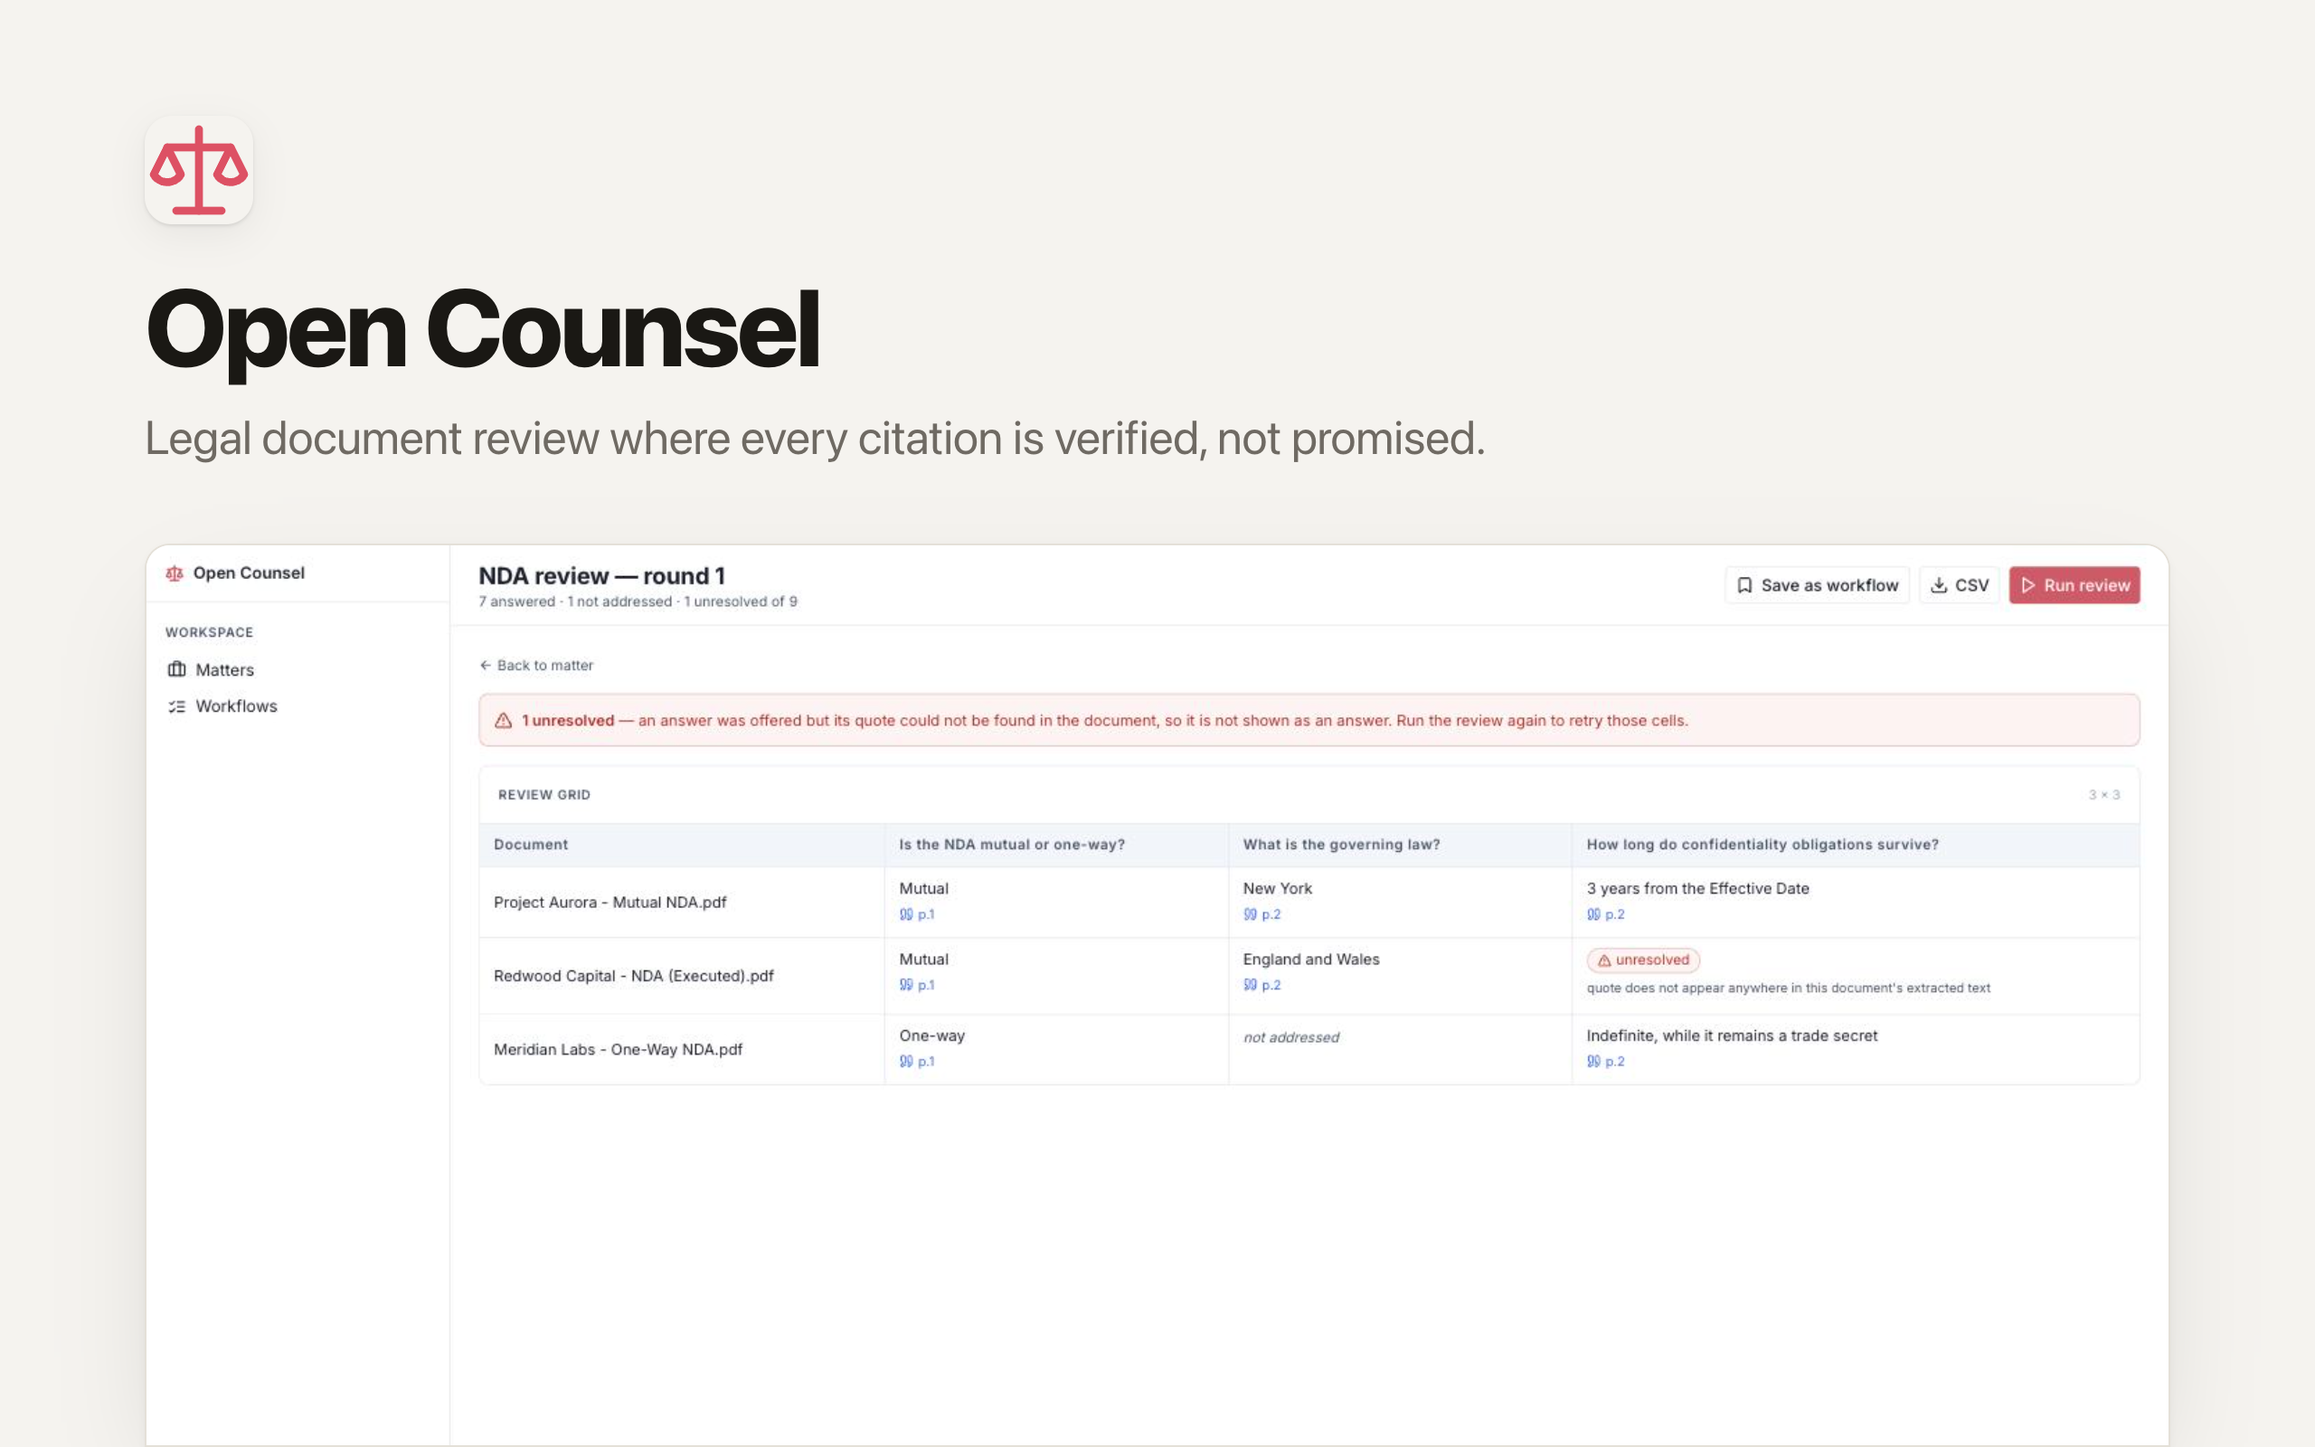
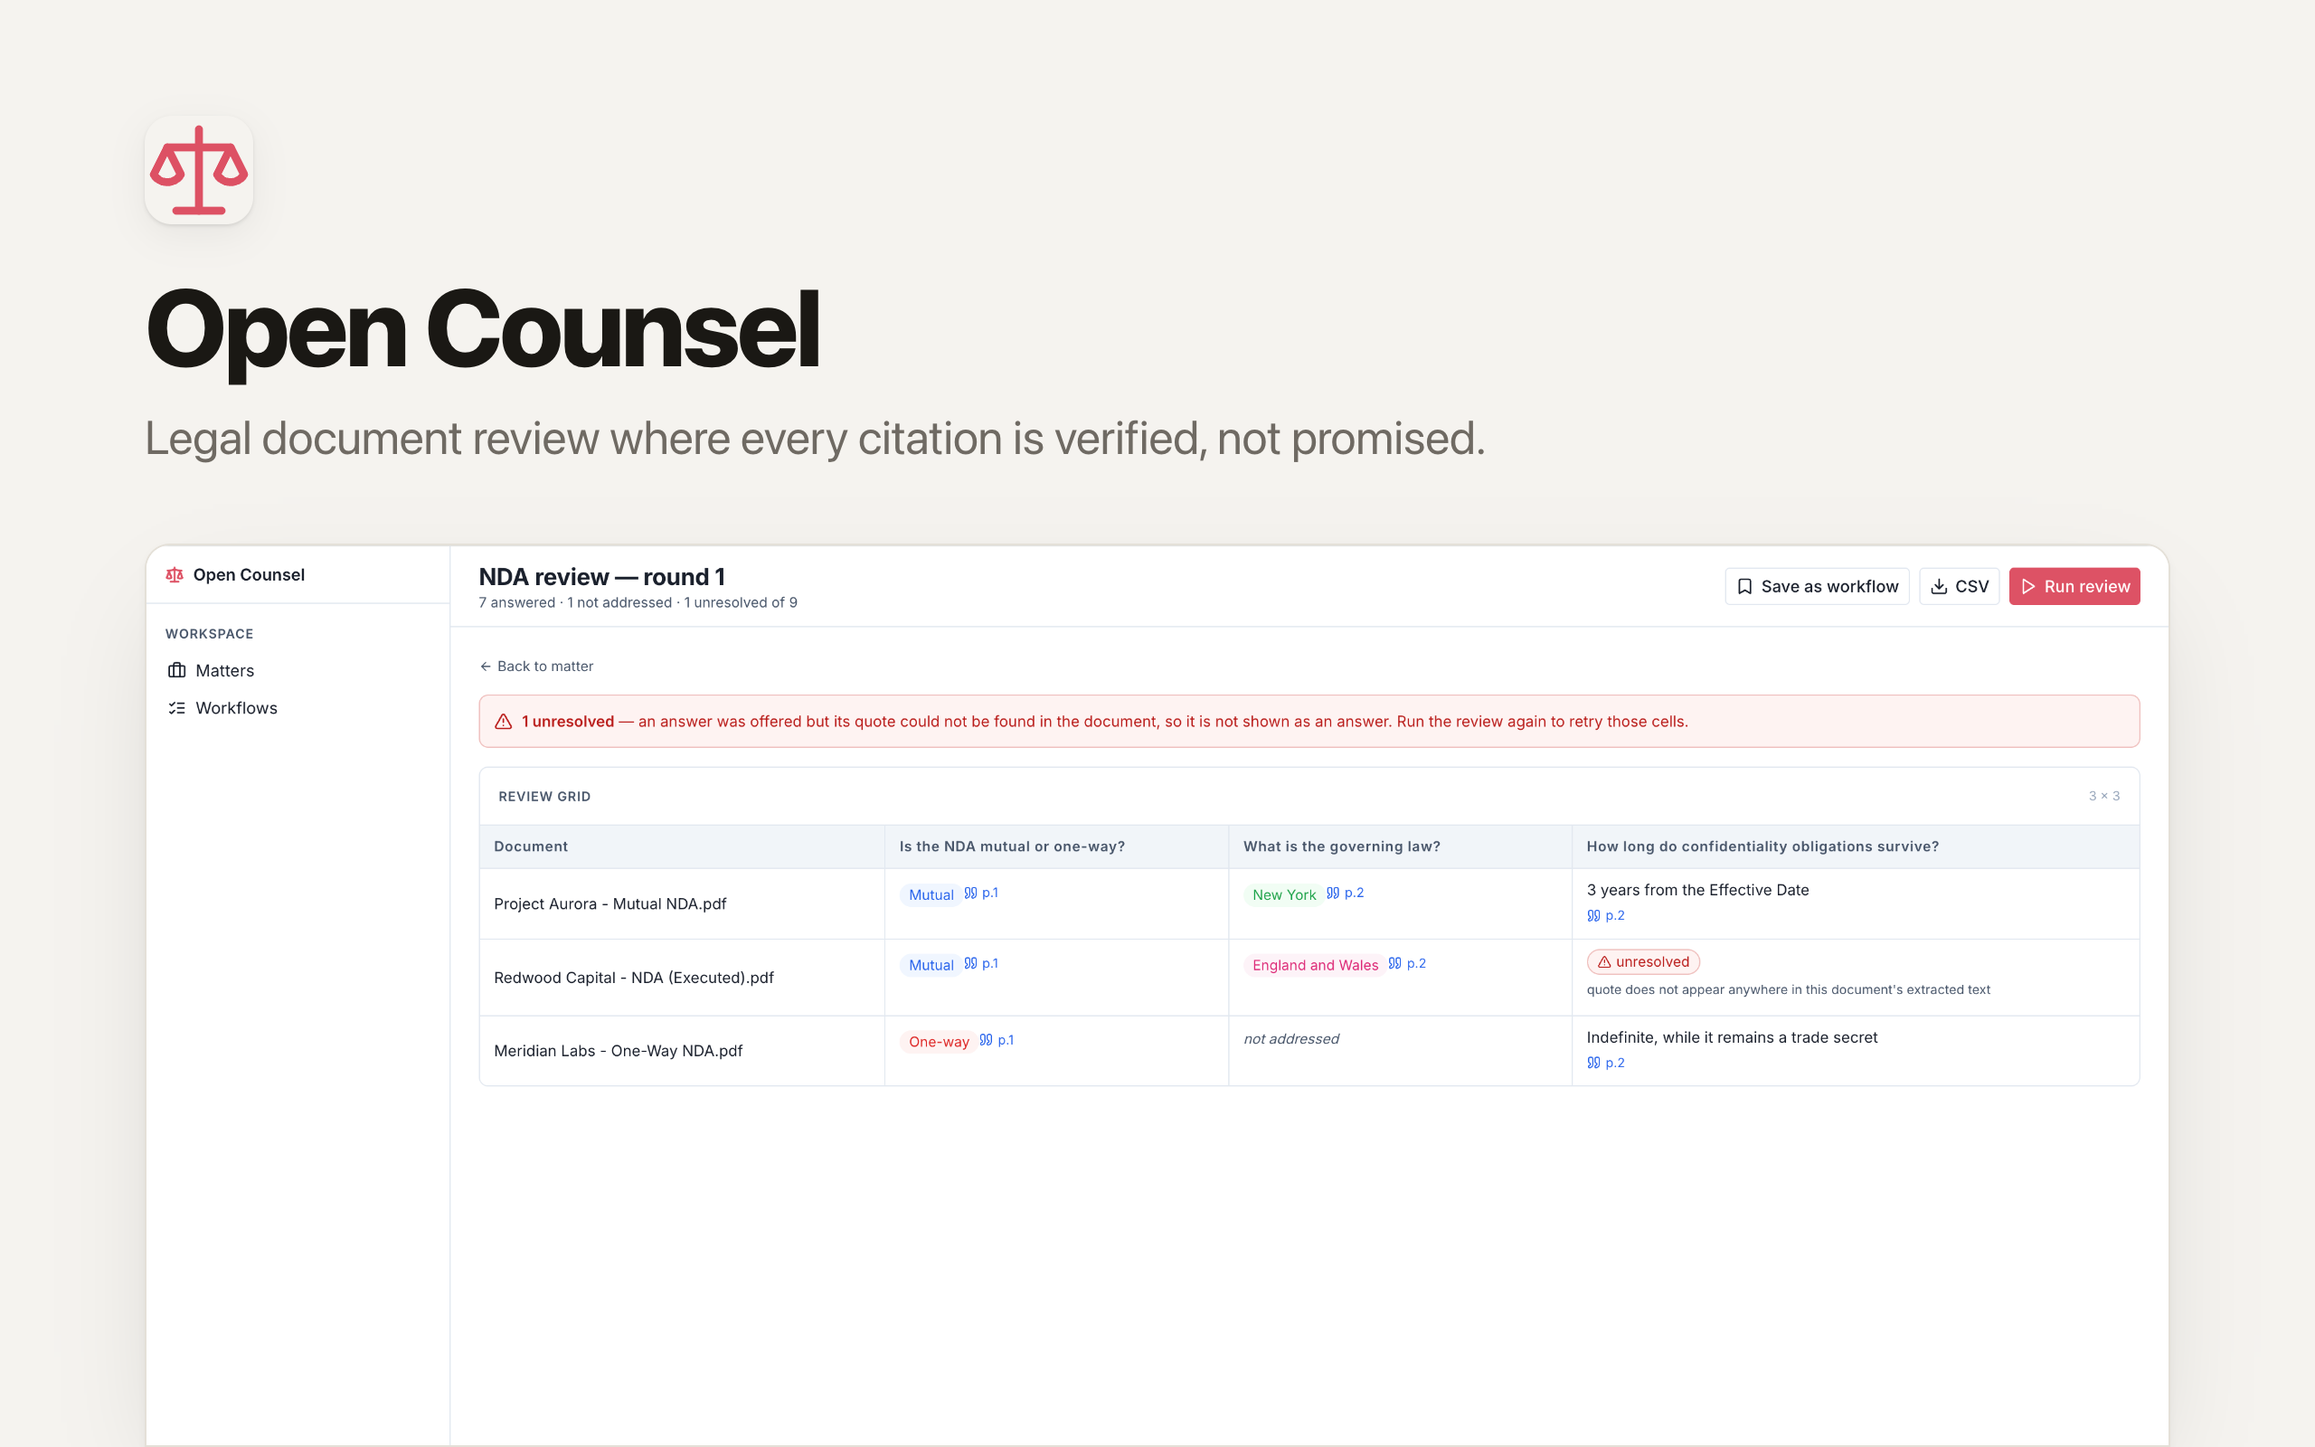
Take the agent handoff off the published API surface, and let the agent be chosen
The app told users to pick their reviewing agent in Settings, and there was no
Settings page — so an organization with more than one agent could not start a
review at all: the platform refuses to guess, and nothing in the UI could
resolve it. Adds the page, backed by a single-row agent_config, validating the
choice against the live agent list so a stale id cannot wedge every future
dispatch behind an uninterpretable platform 404.

More seriously, POST /api/reviews/{id}/run and the agent listing were both
published in the OpenAPI document the agent discovers the app through. The agent
is the *target* of a dispatch, so it could hand itself a review — a loop the app
has no way to break — and every published route costs context in every agent
turn. Both are now plain unpublished routes. Published path count: 14, none of
them the handoff.

Also refreshes the README banner.

diff --git a/src/server/index.ts b/src/server/index.ts
@@ -927,53 +927,80 @@ async function upsertCell(
   );
 }
 
-const runReview = createRoute({
-  method: "post",
-  path: "/api/reviews/{id}/run",
-  tags: ["Reviews"],
-  summary: "Hand the review to the org's agent",
-  description: "Returns the brief either way — when dispatch is unavailable the user pastes it into chat instead.",
-  request: {
-    params: z.object({ id: z.string() }),
-    body: {
-      content: {
-        "application/json": {
-          schema: z.object({ server_id: z.string().optional() }),
-        },
-      },
-    },
-  },
-  responses: {
-    200: ok(
-      "Dispatch outcome plus the brief",
-      z.object({
-        dispatched: z.boolean(),
-        brief: z.string(),
-        error: z.string().optional(),
-        servers: z.array(z.object({ id: z.string(), name: z.string().nullable(), status: z.string().nullable() })).optional(),
-      }),
-    ),
-    404: fail("No such review"),
-  },
+// ── Agent handoff ───────────────────────────────────────────────────
+//
+// A review runs on the org's agent, not in this app: reading long legal prose
+// is judgment work that takes minutes. These routes are the handoff.
+//
+// They are deliberately NOT on the OpenAPI surface. The agent is the *target*
+// of a dispatch, so publishing `/run` would let it hand a review to itself — a
+// loop the app has no way to break — and every published route costs context in
+// every agent turn. The agent's side of this contract is the routes it already
+// has: GET /api/documents/{id}/pages and POST /api/reviews/{id}/cells.
+
+/** The chosen agent, or null to let the platform resolve a single-agent org. */
+async function configuredServerId(): Promise<string | null> {
+  const row = await get<{ server_id: string }>("SELECT server_id FROM agent_config WHERE id = 1");
+  return row?.server_id || null;
+}
+
+app.get("/api/agent", async (c) => {
+  const servers = await listAgentServers(c.env);
+  return c.json({
+    // Distinct on purpose: "this deployment has no platform token" (off-platform)
+    // is a different problem from "the platform didn't answer" (transient).
+    available: dispatchAvailable(c.env),
+    reachable: servers !== null,
+    server_id: await configuredServerId(),
+    servers: servers ?? [],
+  });
 });
 
-app.openapi(runReview, async (c) => {
-  const { id } = c.req.valid("param");
-  const body = c.req.valid("json");
+app.put("/api/agent", async (c) => {
+  let body: { server_id?: unknown };
+  try {
+    body = (await c.req.json()) as typeof body;
+  } catch {
+    return c.json({ error: "Invalid JSON" }, 400);
+  }
+  const wanted = typeof body.server_id === "string" ? body.server_id.trim() : "";
+
+  // Validated against the live list rather than stored blind: a mistyped or
+  // decommissioned id would otherwise wedge every future review behind a
+  // platform 404 the user has no way to interpret.
+  if (wanted) {
+    const servers = await listAgentServers(c.env);
+    if (servers === null) return c.json({ error: "Can't reach the platform to verify that agent." }, 503);
+    if (!servers.some((s) => s.id === wanted)) return c.json({ error: "That agent isn't in your organization." }, 400);
+  }
+
+  await run(
+    `INSERT INTO agent_config (id, server_id, updated_at) VALUES (1, ?, datetime('now'))
+     ON CONFLICT(id) DO UPDATE SET server_id = excluded.server_id, updated_at = excluded.updated_at`,
+    [wanted],
+  );
+  return c.json({ server_id: wanted || null });
+});
+
+/** Hand a review to the agent. Returns the brief either way, so an unreachable
+ *  platform degrades to "paste this into chat" rather than a dead end. */
+app.post("/api/reviews/:id/run", async (c) => {
+  const id = c.req.param("id");
 
   const review = await get<{ id: string; name: string; matter_id: string }>(
     "SELECT id, name, matter_id FROM reviews WHERE id = ?",
     [id],
   );
-  if (!review) return c.json({ error: "No such review" } as never, 404);
+  if (!review) return c.json({ error: "No such review" }, 404);
 
   const columns = await query<{ key: string; question: string; hint: string; type: string; options: string }>(
     "SELECT key, question, hint, type, options FROM review_columns WHERE review_id = ? ORDER BY position",
     [id],
   );
-  const documentCount = await countOf("SELECT COUNT(*) AS n FROM documents WHERE matter_id = ? AND extract_status = 'ready'", [
-    review.matter_id,
-  ]);
+  const documentCount = await countOf(
+    "SELECT COUNT(*) AS n FROM documents WHERE matter_id = ? AND extract_status = 'ready'",
+    [review.matter_id],
+  );
 
   const brief = reviewBrief({
     reviewId: id,
@@ -985,18 +1012,18 @@ app.openapi(runReview, async (c) => {
 
   const result = await dispatchTask(c.env, {
     instruction: brief,
-    serverId: body?.server_id ?? null,
-    // Keyed on the review *and* its current cell count, so re-running after
-    // more documents arrive is a new task rather than a silently-deduplicated
-    // repeat of the first one.
+    serverId: await configuredServerId(),
+    // Keyed on the review *and* how many documents it covers, so re-running
+    // after more documents arrive is a new task rather than a silently
+    // deduplicated repeat of the first one.
     idempotencyKey: `review:${id}:${documentCount}`,
   });
 
   if (result.ok) {
     await run("UPDATE reviews SET status = 'running', updated_at = datetime('now') WHERE id = ?", [id]);
-    return c.json({ dispatched: true, brief } as never);
+    return c.json({ dispatched: true, brief });
   }
-  return c.json({ dispatched: false, brief, error: result.error, servers: result.servers } as never);
+  return c.json({ dispatched: false, brief, error: result.error, servers: result.servers });
 });
 
 const exportReview = createRoute({
@@ -1227,25 +1254,5 @@ app.openapi(deleteWorkflow, async (c) => {
 });
 
 // ── Agents (for the settings screen) ─────────────────────────────────
-
-const getAgents = createRoute({
-  method: "get",
-  path: "/api/agents",
-  tags: ["Settings"],
-  summary: "Agents this app can hand a review to",
-  responses: {
-    200: ok(
-      "Agent availability",
-      z.object({
-        available: z.boolean(),
-        servers: z.array(z.object({ id: z.string(), name: z.string().nullable(), status: z.string().nullable() })).nullable(),
-      }),
-    ),
-  },
-});
-
-app.openapi(getAgents, async (c) => {
-  return c.json({ available: dispatchAvailable(c.env), servers: await listAgentServers(c.env) } as never);
-});
 
 export default app;

diff --git a/src/client/routes/settings.tsx b/src/client/routes/settings.tsx
@@ -1,0 +1,111 @@
+import { useEffect, useState } from "react";
+import { Bot } from "lucide-react";
+import { api } from "../api";
+import { Card, Chip, Eyebrow, Toolbar, Zone } from "../components/ui";
+
+interface AgentState {
+  available: boolean;
+  reachable: boolean;
+  server_id: string | null;
+  servers: { id: string; name: string | null; status: string | null }[];
+}
+
+/**
+ * Which agent reads the documents.
+ *
+ * Only worth a choice when the org runs more than one: with a single agent the
+ * platform resolves it, and with several it refuses to guess — so an unset
+ * choice is what makes "Run review" fail with an error the user can't act on.
+ */
+export default function Settings() {
+  const [state, setState] = useState<AgentState | null>(null);
+  const [error, setError] = useState("");
+  const [saving, setSaving] = useState(false);
+
+  async function load() {
+    setState(await api.agent());
+  }
+
+  useEffect(() => {
+    void load().catch((e) => setError((e as Error).message));
+  }, []);
+
+  async function choose(serverId: string) {
+    setSaving(true);
+    setError("");
+    try {
+      await api.setAgentServer(serverId || null);
+      await load();
+    } catch (e) {
+      setError((e as Error).message);
+    } finally {
+      setSaving(false);
+    }
+  }
+
+  return (
+    <>
+      <Toolbar title="Settings" subtitle="Configure once — every review uses this" />
+
+      <div className="mx-auto max-w-[75rem] p-6">
+        <Card>
+          <Zone>
+            <Eyebrow right={state?.available ? undefined : "unavailable"}>Reviewing agent</Eyebrow>
+            <p className="mt-1 text-xs text-muted">
+              Reviews are handed to your agent, which reads each document and posts answers back here. Every answer it
+              sends is checked against the document before this app will show it.
+            </p>
+
+            {!state ? (
+              <p className="mt-2 text-xs text-faint">Loading…</p>
+            ) : !state.available ? (
+              <p className="mt-2 text-xs text-warning">
+                This deployment can't reach the platform, so “Run review” falls back to a brief you paste into your
+                agent's chat.
+              </p>
+            ) : !state.reachable ? (
+              <p className="mt-2 text-xs text-danger">Couldn't reach the platform to list your agents. Try again shortly.</p>
+            ) : state.servers.length === 0 ? (
+              <p className="mt-2 text-xs text-warning">No agents in this organization yet.</p>
+            ) : state.servers.length === 1 ? (
+              <div className="mt-2">
+                <Chip>
+                  <Bot className="size-3" /> {state.servers[0].name || state.servers[0].id}
+                </Chip>
+                <p className="mt-1 text-[0.6875rem] text-faint">
+                  Your only agent — nothing to choose. Reviews go here.
+                </p>
+              </div>
+            ) : (
+              <div className="mt-2">
+                <select
+                  value={state.server_id ?? ""}
+                  disabled={saving}
+                  onChange={(e) => void choose(e.target.value)}
+                  aria-label="Agent that runs reviews"
+                  className="h-9 w-full max-w-sm rounded-sm border border-border bg-surface px-2 text-[0.8125rem] focus:border-ring focus:outline-none"
+                >
+                  <option value="">Choose an agent…</option>
+                  {state.servers.map((s) => (
+                    <option key={s.id} value={s.id}>
+                      {s.name || s.id}
+                      {s.status && s.status !== "ready" ? ` (${s.status})` : ""}
+                    </option>
+                  ))}
+                </select>
+                {!state.server_id ? (
+                  <p className="mt-1 text-[0.6875rem] text-warning">
+                    You have more than one agent. Pick the one that runs reviews — the platform won't choose for you, so
+                    “Run review” can't start until this is set.
+                  </p>
+                ) : null}
+              </div>
+            )}
+
+            {error ? <p className="mt-2 text-xs text-danger">{error}</p> : null}
+          </Zone>
+        </Card>
+      </div>
+    </>
+  );
+}

diff --git a/src/client/api.ts b/src/client/api.ts
@@ -137,10 +137,23 @@ export const api = {
     request<{ id: string }>(`/api/matters/${matterId}/reviews`, { method: "POST", body: JSON.stringify(body) }),
   cells: (reviewId: string, params = "limit=100") =>
     request<{ cells: Cell[]; total: number }>(`/api/reviews/${reviewId}/cells?${params}`),
-  runReview: (id: string, serverId?: string) =>
+  runReview: (id: string) =>
     request<{ dispatched: boolean; brief: string; error?: string }>(`/api/reviews/${id}/run`, {
       method: "POST",
-      body: JSON.stringify(serverId ? { server_id: serverId } : {}),
+      body: "{}",
+    }),
+
+  agent: () =>
+    request<{
+      available: boolean;
+      reachable: boolean;
+      server_id: string | null;
+      servers: { id: string; name: string | null; status: string | null }[];
+    }>("/api/agent"),
+  setAgentServer: (serverId: string | null) =>
+    request<{ server_id: string | null }>("/api/agent", {
+      method: "PUT",
+      body: JSON.stringify({ server_id: serverId ?? "" }),
     }),
   deleteReview: (id: string) => request<{ ok: boolean }>(`/api/reviews/${id}`, { method: "DELETE" }),
 

diff --git a/src/client/app.tsx b/src/client/app.tsx
@@ -1,13 +1,15 @@
 import { NavLink, Navigate, Route, Routes } from "react-router-dom";
-import { Briefcase, ListChecks, Scale } from "lucide-react";
+import { Briefcase, ListChecks, Scale, Settings2 } from "lucide-react";
 import Matters from "./routes/matters";
 import Matter from "./routes/matter";
 import ReviewGrid from "./routes/review";
 import Workflows from "./routes/workflows";
+import Settings from "./routes/settings";
 
 const NAV = [
   { to: "/matters", label: "Matters", icon: Briefcase },
   { to: "/workflows", label: "Workflows", icon: ListChecks },
+  { to: "/settings", label: "Settings", icon: Settings2 },
 ];
 
 export default function App() {
@@ -48,6 +50,7 @@ export default function App() {
           <Route path="/matters/:id" element={<Matter />} />
           <Route path="/reviews/:id" element={<ReviewGrid />} />
           <Route path="/workflows" element={<Workflows />} />
+          <Route path="/settings" element={<Settings />} />
         </Routes>
       </main>
     </div>
